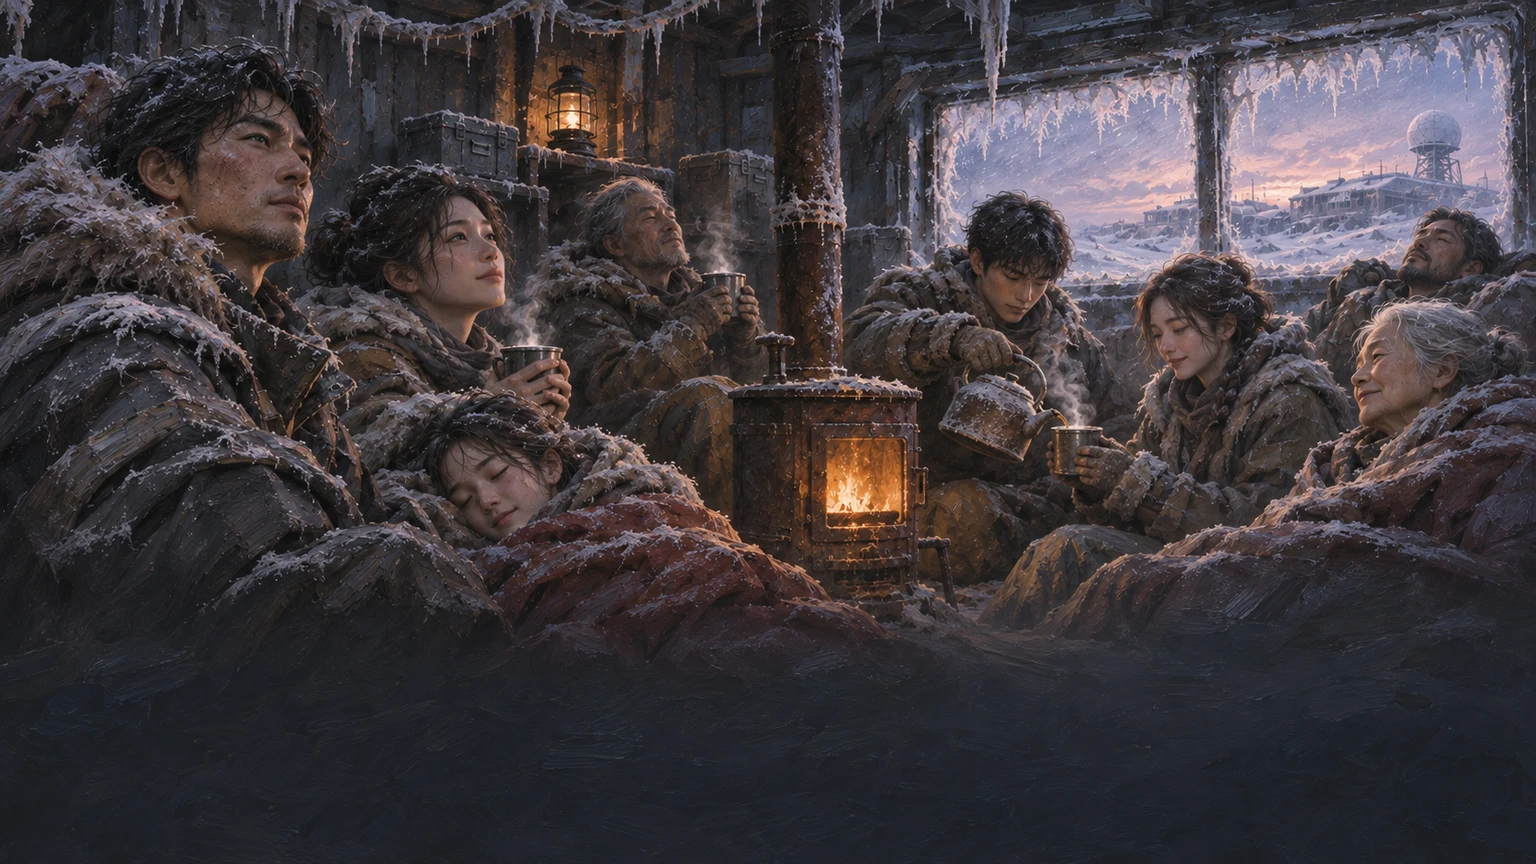
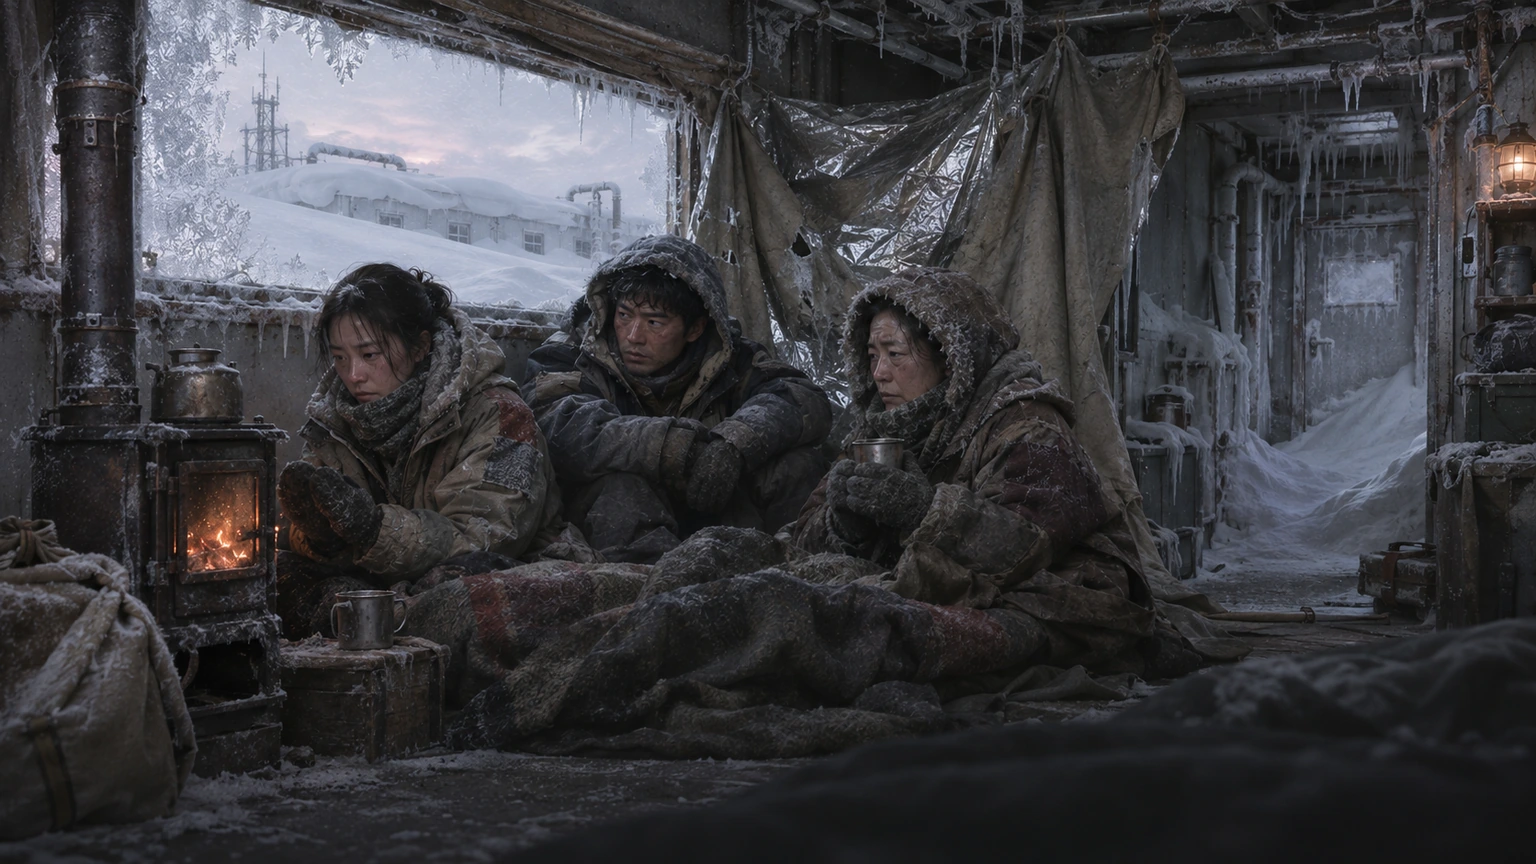
Make ice-age backgrounds realistic and emphasize extreme cold

diff --git a/scripts/art-list.js b/scripts/art-list.js
@@ -10,7 +10,7 @@ const out = [];
 out.push("# 그림 목록 (자동 생성)", "", "`node scripts/art-list.js`로 다시 만든다. ✅는 이미 있는 파일. 없는 그림은 게임이 기본 그림(장소·분위기 그림)으로 대신 보여 주므로 한 장씩 넣어도 된다.", "",
   "- 장면 그림: `assets/scenarios/<재난>/scenes/<이름>.webp` · 가로 16:9 · 1024×576 이상 · 위쪽이 그림의 중심(아래 30%는 글 뒤로 어둡게 스며든다)",
   "- 장비 그림: `assets/gear/<이름>.webp` · 정사각 512×512 · 어두운 배경에 물건 하나",
-  "- 그림체: 지금 있는 유화풍 그대로. 글자·로고 넣지 않기.", "");
+  "- 그림체: 극 빙하기 장면은 극한 추위와 생존 상황이 드러나는 사실적인 실사풍. 장비와 그 외 그림은 기존 유화풍. 글자·로고 넣지 않기.", "");
 const PRIORITY = [
   ["극 빙하기 분위기", ["dawn_quiet", "dawn_storm", "dawn_raid", "dawn_death", "dawn_sick", "dawn_cold", "act1", "act2", "act3"].map((n) => `scenarios/iceage/scenes/${n}.webp`)],
   ["극 빙하기 이야기", ["s_map", "s_sign", "s_sled", "rival_r1", "rival_r2", "rival_r3", "f_cross", "f_wolf_block", "f_train", "ending_missed"].map((n) => `scenarios/iceage/scenes/${n}.webp`)],

diff --git a/assets/scenarios/ART_LIST.md b/assets/scenarios/ART_LIST.md
@@ -4,7 +4,7 @@
 
 - 장면 그림: `assets/scenarios/<재난>/scenes/<이름>.webp` · 가로 16:9 · 1024×576 이상 · 위쪽이 그림의 중심(아래 30%는 글 뒤로 어둡게 스며든다)
 - 장비 그림: `assets/gear/<이름>.webp` · 정사각 512×512 · 어두운 배경에 물건 하나
-- 그림체: 지금 있는 유화풍 그대로. 글자·로고 넣지 않기.
+- 그림체: 극 빙하기 장면은 극한 추위와 생존 상황이 드러나는 사실적인 실사풍. 장비와 그 외 그림은 기존 유화풍. 글자·로고 넣지 않기.
 
 ## 먼저 그릴 것 (35장)
 
